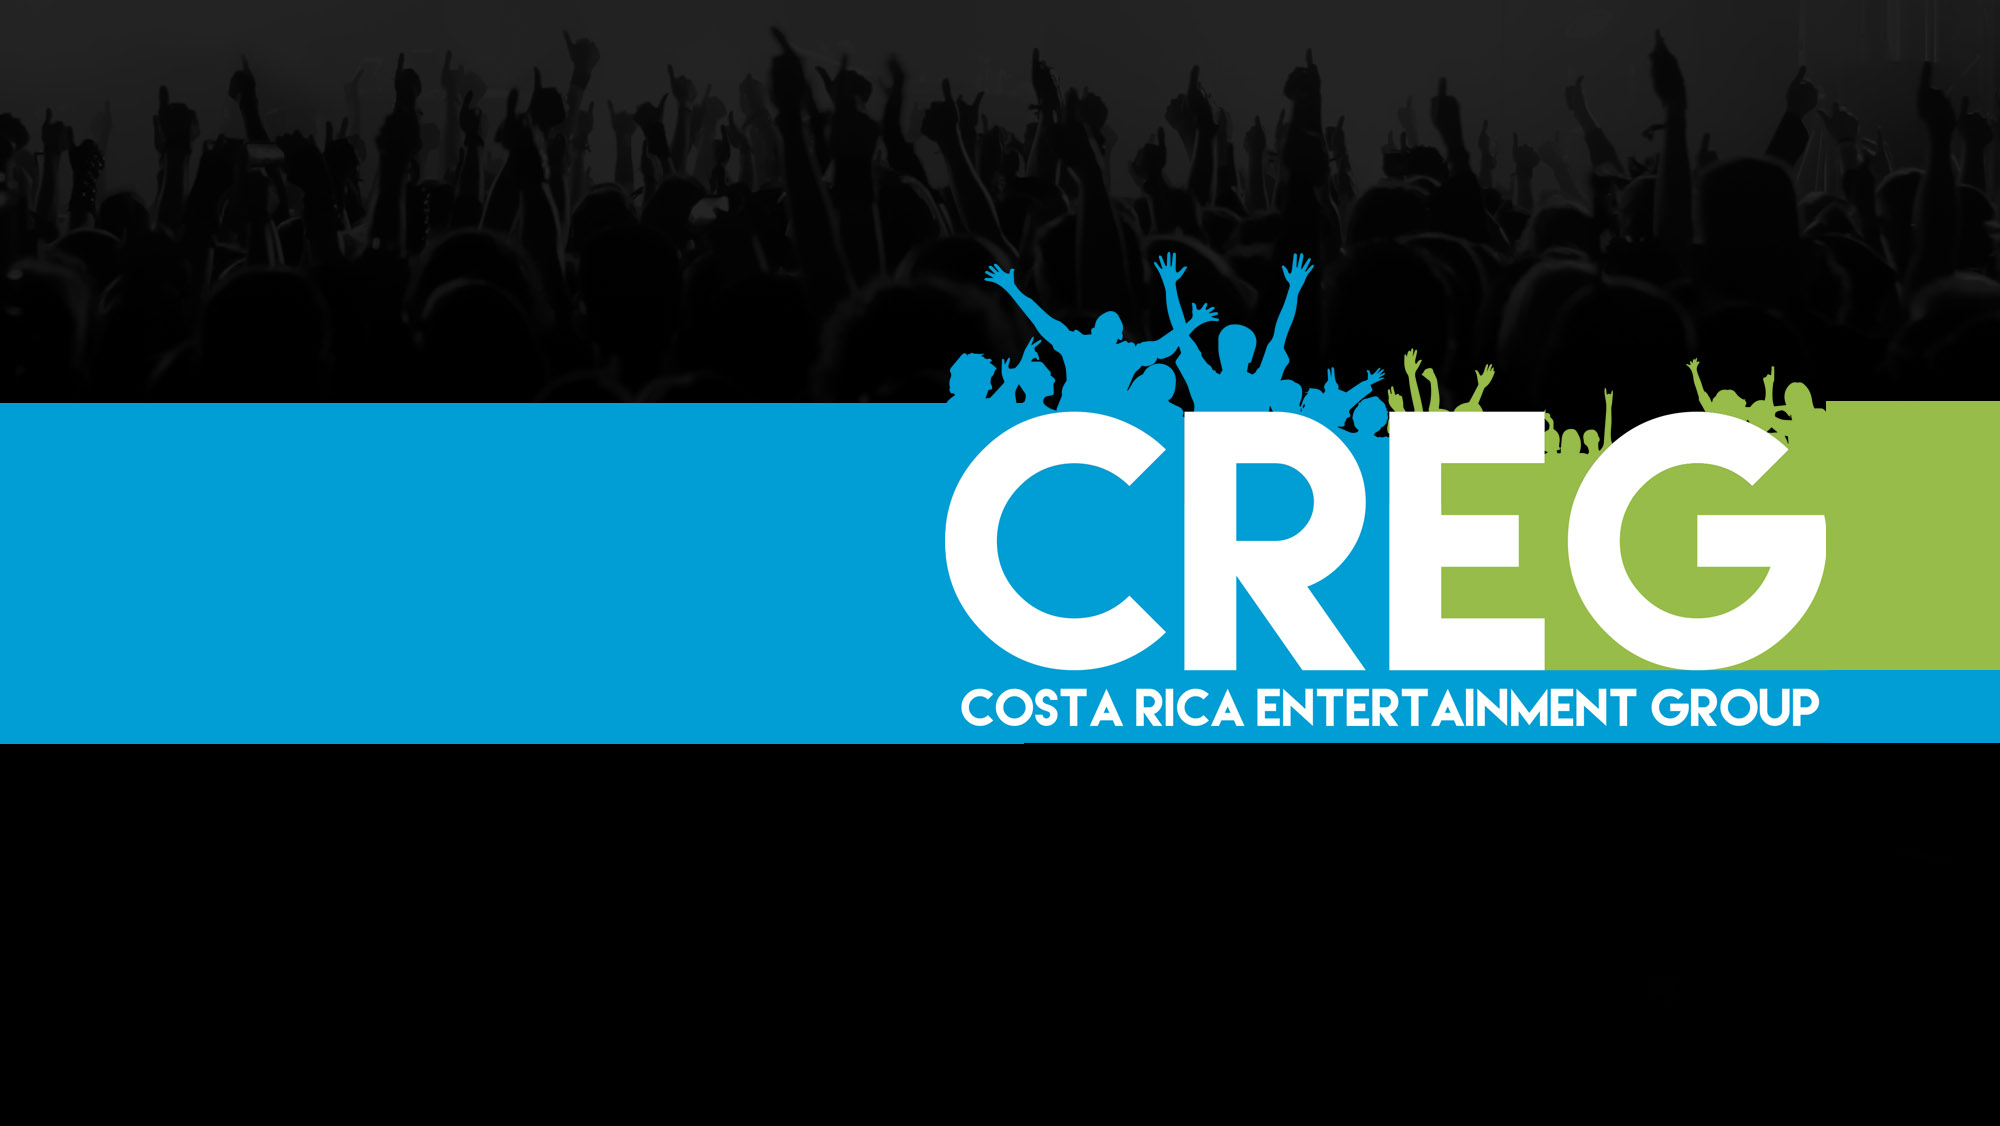
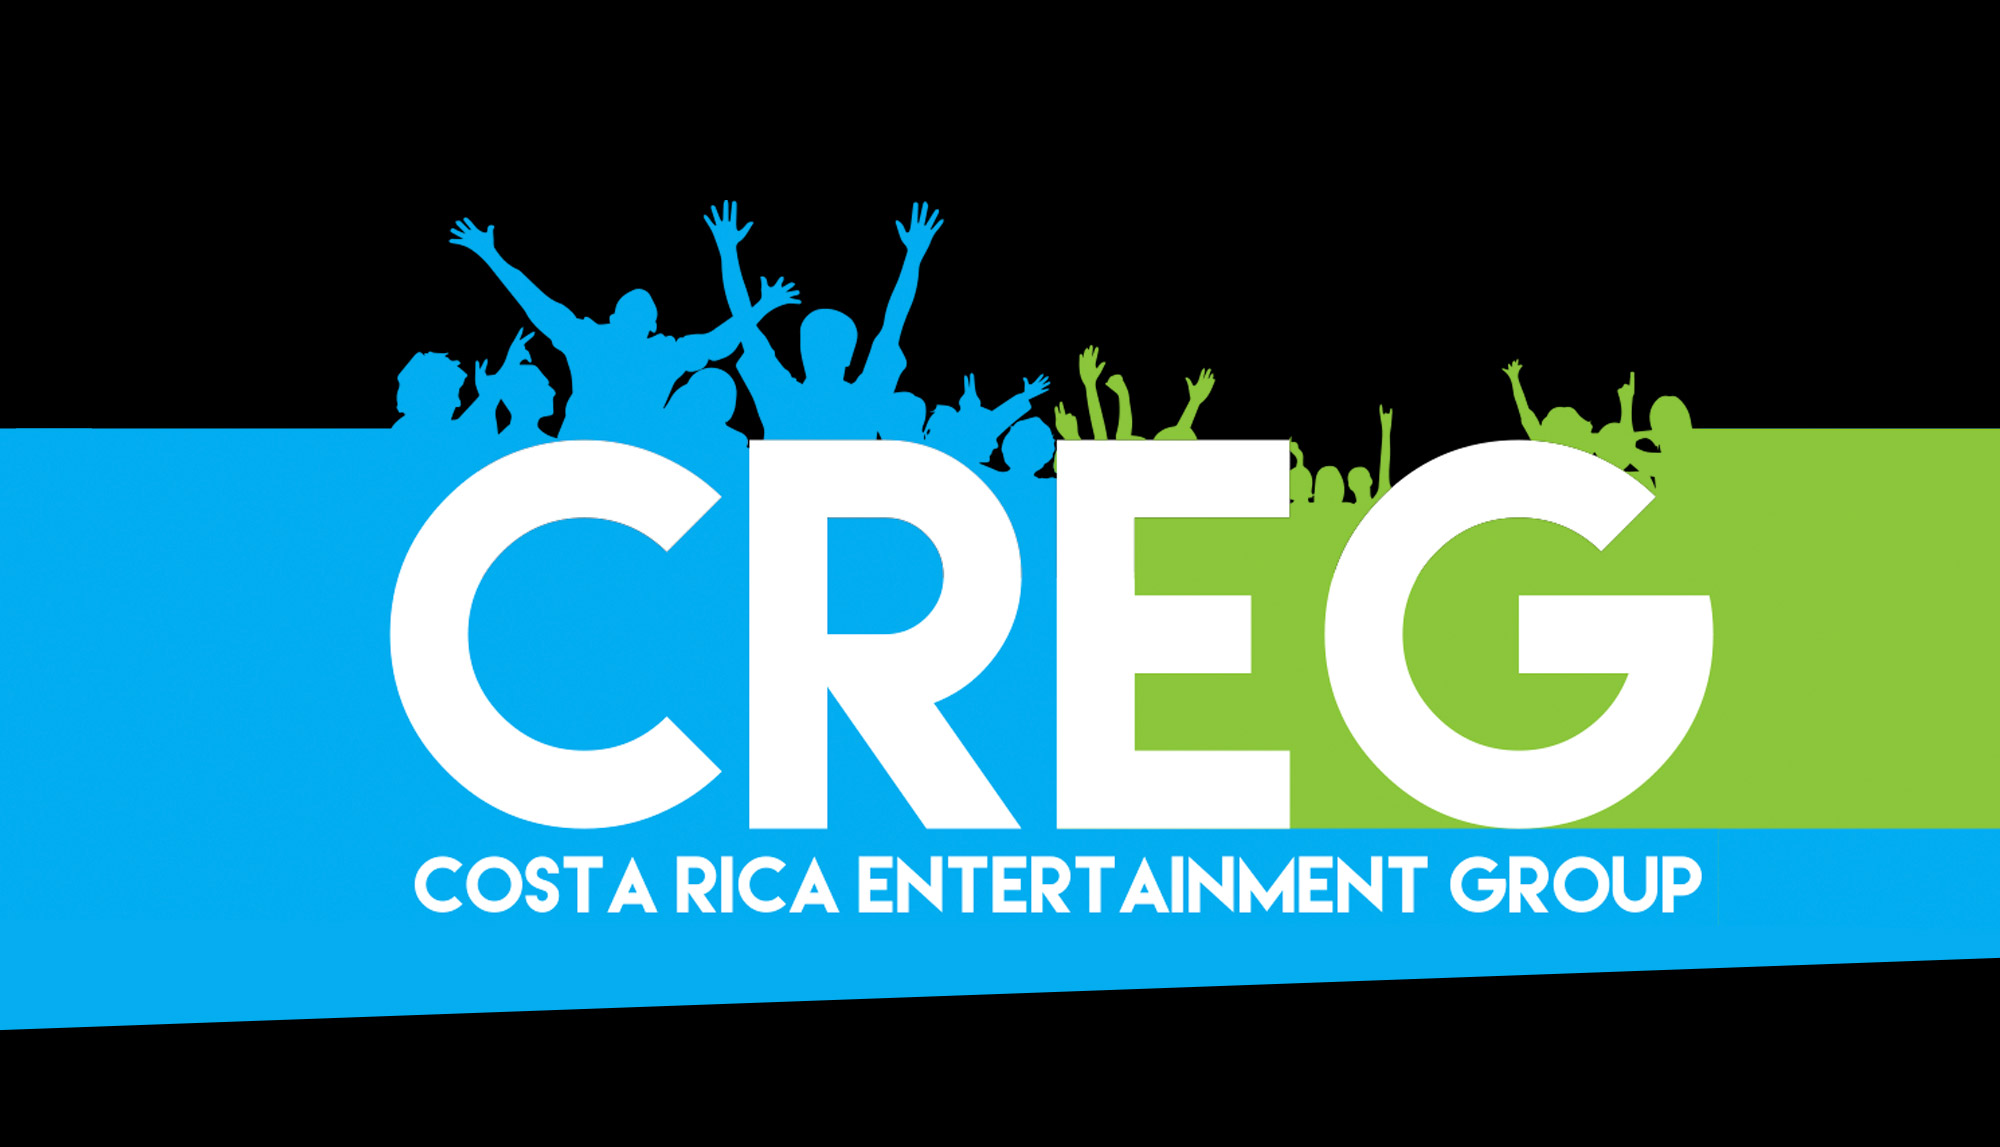
Cambios de colores e imágenes de fondo

diff --git a/_sass/_style.scss b/_sass/_style.scss
@@ -20,7 +20,7 @@ img {
 }
 
 a {
-	color: #90C695;
+	color: $brand-primary;
 }
 
 a:hover {
@@ -221,9 +221,9 @@ a,
 
 .btn-custom-1, .btn-custom-2 {
 	background: transparent;
-	border: 2px solid #90C695;
+	border: 2px solid $brand-primary;
 	padding: 15px 25px;
-	color: #90C695;
+	color: $brand-primary;
 }
 
 .btn-custom-2 {
@@ -232,8 +232,8 @@ a,
 }
 
 .btn-custom-1:hover, .btn-custom-1:focus, .btn-custom-1:active, .btn-custom-1.active {
-	background: #90C695;
-	border: 2px solid #90C695;
+	background: $brand-primary;
+	border: 2px solid $brand-primary;
 	color: #FFF;
 }
 
@@ -244,8 +244,8 @@ a,
 }
 
 .btn-custom-1-inverse, .btn-custom-2-inverse {
-	background: #90C695;
-	border: 2px solid #90C695;
+	background: $brand-primary;
+	border: 2px solid $brand-primary;
 	padding: 15px 25px;
 	color: #FFF;
 }
@@ -257,8 +257,8 @@ a,
 
 .btn-custom-1-inverse:hover, .btn-custom-1-inverse:focus, .btn-custom-1-inverse:active, .btn-custom-1-inverse.active {
 	background: transparent;
-	border: 2px solid #90C695;
-	color: #90C695;
+	border: 2px solid $brand-primary;
+	color: $brand-primary;
 }
 
 .btn-custom-2-inverse:hover, .btn-custom-2-inverse:focus, .btn-custom-2-inverse:active, .btn-custom-2-inverse.active {
@@ -287,7 +287,7 @@ a,
 }
 
 .skill-bar .skill-rate-on {
-	background: #90C695;
+	background: $brand-primary;
 }
 
 .skill-rate-on, .skill-rate-off {
@@ -312,7 +312,7 @@ a,
 }
 
 .progress-bar {
-	background: #90C695;
+	background: $brand-primary;
 	box-shadow: none;
 	text-align: right;
 	padding-right: 10px;
@@ -343,7 +343,7 @@ a,
 .nav-pills > li.active > a,
 .nav-pills>li.active>a:hover,
 .nav-pills>li.active>a:focus {
-	background: #90C695;
+	background: $brand-primary;
 }
 
 /* ---------------------------------------------- /*
@@ -380,7 +380,7 @@ a,
 }
 
 .label-custom-1 {
-	background: #90C695;
+	background: $brand-primary;
 }
 
 .label-custom-2 {
@@ -425,7 +425,7 @@ a,
 }
 
 .icons-widget li a:hover {
-	background: #90C695;
+	background: $brand-primary;
 }
 
 .icons-widget-sm li a{
@@ -464,7 +464,7 @@ a,
 /* ---------------------------------------------- */
 
 .owl-theme .owl-controls .owl-buttons div {
-	background: #90C695;
+	background: $brand-primary;
 	font-size: 24px;
 	opacity: 1;
 	width: 44px;
@@ -474,7 +474,7 @@ a,
 }
 
 .owl-theme .owl-controls .owl-page span {
-	background: #90C695;
+	background: $brand-primary;
 	margin: 5px 4px;
 }
 
@@ -522,7 +522,7 @@ a,
 }
 
 .scroll-up a:hover {
-	color: #90C695;
+	color: $brand-primary;
 }
 
 /* ---------------------------------------------- /*
@@ -580,8 +580,11 @@ a,
 }
 
 .rotate-section {
-	background: #FFF;
+	background: $gris-bg;
 	z-index: 99;
+	h4{
+		color: #fff;
+	}
 }
 
 .rotate-section:before {
@@ -592,7 +595,7 @@ a,
 	width: 120%;
 	height: 100%;
 	position: absolute;
-	background-color: #FFF;
+	background-color: $gris-bg;
 
 	-webkit-transform-origin: 0 0;
 	   -moz-transform-origin: 0 0;
@@ -620,7 +623,7 @@ a,
 	width: 120%;
 	height: 100%;
 	position: absolute;
-	background-color: #FFF;
+	background-color: $gris-bg;
 
 	-webkit-transform: rotate(2deg);
 	   -moz-transform: rotate(2deg);
@@ -653,7 +656,7 @@ a,
 .navbar-custom .nav li.active {
 	background: none;
 	outline: 0;
-	color: #90C695;
+	color: $brand-primary;
 }
 
 .navbar-custom .navbar-brand {
@@ -683,7 +686,7 @@ a,
 .navbar-color .nav li a:focus,
 .navbar-color .nav li.active,
 .navbar-color .navbar-nav > li.active a {
-	color: #90C695;
+	color: $brand-primary;
 }
 
 .navbar-color .navbar-nav > li > a,
@@ -703,7 +706,7 @@ a,
 
 .navbar-color .navbar-toggle .icon-bar,
 .custom-collapse .navbar-toggle .icon-bar {
-	background: #90C695;
+	background: $brand-primary;
 }
 
 /* ---------------------------------------------- /*
@@ -713,7 +716,7 @@ a,
 #intro {
 	background: rgba(34, 34, 34, .2) !important;
 	z-index: auto !important;
-	padding: 260px 0 160px 0;
+	padding: 260px 0 100px 0;
 	text-align: center;
 }
 
@@ -729,6 +732,10 @@ a,
 
 .hello {
 	margin: 0 0 100px;
+}
+
+.intro-text{
+	min-height: 350px;
 }
 
 /* ---------------------------------------------- /*
@@ -752,7 +759,7 @@ a,
 
 .service .icon {
 	font-size: 32px;
-	color: #90C695;
+	color: $brand-primary;
 }
 
 .service h4 {
@@ -876,8 +883,11 @@ a,
 }
 
 #contact-data {
-	background: #ebeff0;
+	background: $gris-bg;
 	text-align: center;
+	h4{
+		color: #fff;
+	}
 }
 
 #map-section {
@@ -915,6 +925,7 @@ a,
 	margin: 0 auto;
 	display: block;
 	z-index: 10;
+	margin-top: 250px;
 }
 
 .mouse-icon .wheel {

diff --git a/_includes/intro.html b/_includes/intro.html
@@ -6,12 +6,7 @@
 
       <div class="col-md-12">
         
-        <div class="hello wow bounceInDown">
-          <div class="text-left">
-            <h4>Bienvenido a</h4>
-            <h1>CREG</h1>
-            <h3>Costa Rica Entertainment Group</h3>
-          </div>
+        <div class="intro-text">
         </div>
       
 

diff --git a/css/main.scss b/css/main.scss
@@ -11,4 +11,5 @@
 "simpletextrotator",
 "font-awesome.min",
 "animate",
+"variables",
 "style"

diff --git a/_sass/_variables.scss b/_sass/_variables.scss
@@ -1,0 +1,2 @@
+$brand-primary: #00adef;
+$gris-bg: #13100f;
